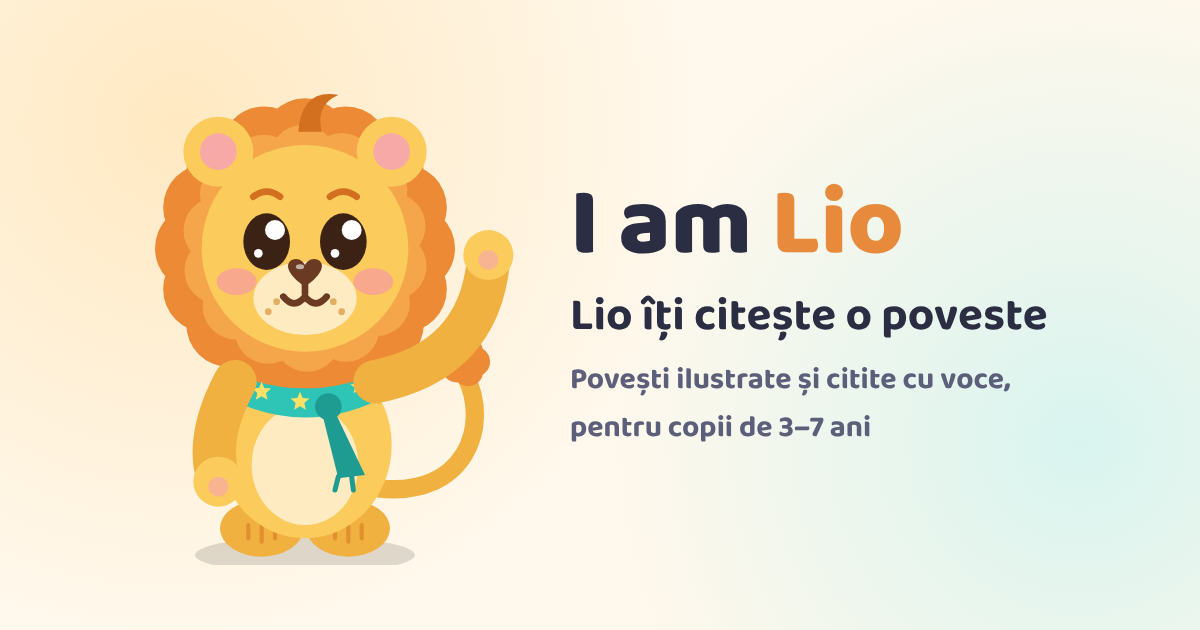
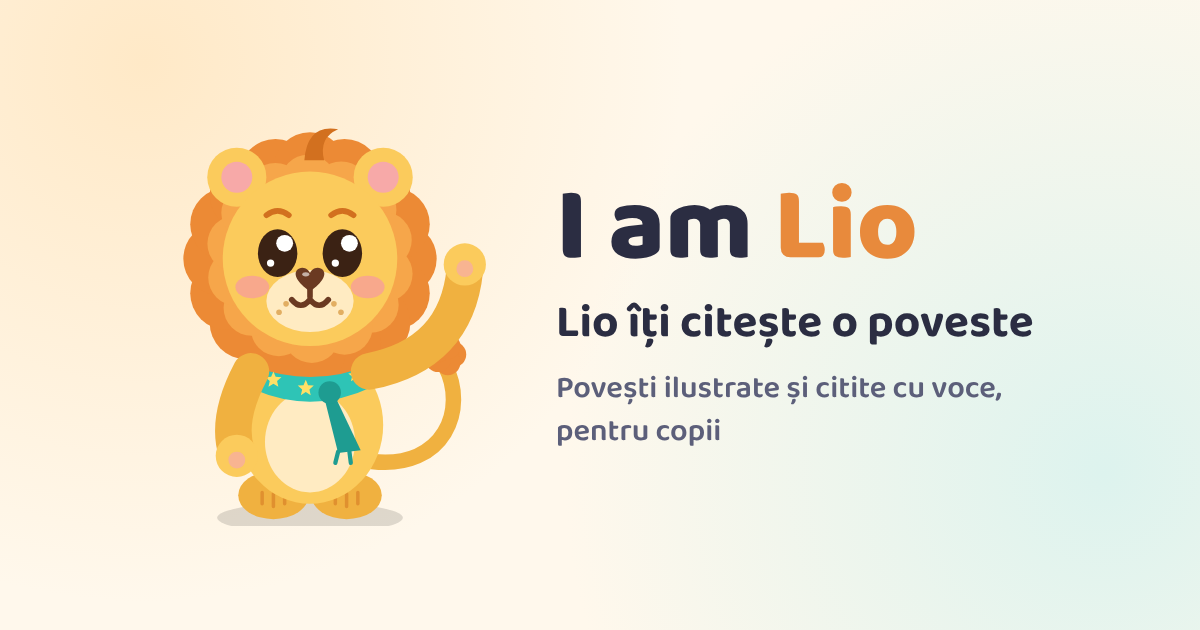
Fără vârstă pe site: „povești pentru copii”, fără filtrul de vârstă
- Textele vizibile, descrierile pentru Google și pentru distribuire, aplicația instalabilă și
  subsolul spun „povești pentru copii”, fără „3–7 ani”
- Cardurile nu mai afișează vârsta; filtrul „Vârsta” a fost scos (rămân categoria, durata, favoritele)
- Imaginea de distribuire refăcută fără vârstă (scripts/og_image.mjs o poate regenera oricând)
- Regulile de scriere a poveștilor nu se schimbă

Claude-Session: https://claude.ai/code/session_01QrXJhKQ2B73JrHLDqtty8x

diff --git a/public/assets/js/library.js b/public/assets/js/library.js
@@ -24,11 +24,10 @@
   var categories = {};
   var counts = null;
 
-  // Filtrele stau în adresa paginii (ex. ?categorie=de-culcare&varsta=3-5), ca o listă filtrată să poată fi trimisă.
+  // Filtrele stau în adresa paginii (ex. ?categorie=de-culcare&durata=scurte), ca o listă filtrată să poată fi trimisă.
   var query = new URLSearchParams(location.search);
   var filters = {
     categorie: query.get("categorie") || "",
-    varsta: query.get("varsta") || "",
     durata: query.get("durata") || "",
     favorite: query.get("favorite") === "1"
   };
@@ -36,17 +35,12 @@
   function saveFilters() {
     var params = new URLSearchParams();
     if (filters.categorie) params.set("categorie", filters.categorie);
-    if (filters.varsta) params.set("varsta", filters.varsta);
     if (filters.durata) params.set("durata", filters.durata);
     if (filters.favorite) params.set("favorite", "1");
     var search = params.toString();
     try {
       history.replaceState(null, "", search ? "?" + search : location.pathname);
     } catch (e) { /* unele browsere refuză în previzualizări; filtrul merge oricum */ }
-  }
-
-  function ageFits(storyAge, wanted) {
-    return !wanted || storyAge === wanted || storyAge === "3-7";
   }
 
   function durationFits(minutes, wanted) {
@@ -58,7 +52,6 @@
 
   function matches(story) {
     return (!filters.categorie || (story.categories || []).indexOf(filters.categorie) !== -1) &&
-      ageFits(story.age, filters.varsta) &&
       durationFits(story.minutes, filters.durata) &&
       (!filters.favorite || Iamlio.isFavorite(story.id));
   }
@@ -92,7 +85,7 @@
     cover.appendChild(el("span", "story-play", "▶"));
     link.appendChild(cover);
 
-    // Pe card: copertă, titlu și durată. Restul (vârsta, contorul, rezumatul) e mic și discret, pentru părinți.
+    // Pe card: copertă, titlu și durată. Restul (contorul, rezumatul) e mic și discret, pentru părinți.
     var body = el("div", "story-body");
     var heading = el("div", "story-heading");
     heading.appendChild(el("h3", null, story.title));
@@ -101,7 +94,6 @@
     heading.appendChild(minutes);
     body.appendChild(heading);
     var details = el("p", "story-details");
-    details.appendChild(el("span", null, story.age + " ani"));
     if (counts) details.appendChild(el("span", "story-reads", Iamlio.readsLabel(counts[story.id] || 0)));
     body.appendChild(details);
     body.appendChild(el("p", "story-summary", story.summary));
@@ -123,7 +115,7 @@
     var reset = el("button", "pill", "Arată toate poveștile");
     reset.type = "button";
     reset.addEventListener("click", function () {
-      filters = { categorie: "", varsta: "", durata: "", favorite: false };
+      filters = { categorie: "", durata: "", favorite: false };
       syncFilters();
       showStories();
     });
@@ -197,7 +189,7 @@
   }
 
   function activeFilters() {
-    return [filters.categorie, filters.varsta, filters.durata, filters.favorite].filter(Boolean).length;
+    return [filters.categorie, filters.durata, filters.favorite].filter(Boolean).length;
   }
 
   // Filtrele stau strânse sub butonul „Filtre”; se deschid singure doar dacă adresa are deja filtre alese.

diff --git a/public/index.html b/public/index.html
@@ -7,16 +7,16 @@
   <meta http-equiv="Content-Security-Policy" content="default-src 'self'; script-src 'self'; style-src 'self' 'unsafe-inline'; img-src 'self' data:; media-src 'self'; font-src 'self'; connect-src 'self'; manifest-src 'self'; object-src 'none'; base-uri 'self'; form-action 'self'">
   <meta name="referrer" content="strict-origin-when-cross-origin">
   <title>Iamlio — Lio îți citește o poveste</title>
-  <meta name="description" content="Povești ilustrate pentru copii de 3–7 ani, citite cu voce de Lio, puiul de leu.">
+  <meta name="description" content="Povești ilustrate pentru copii, citite cu voce de Lio, puiul de leu.">
   <meta name="theme-color" content="#FFF4E0">
   <link rel="canonical" href="https://iamlio.ro/">
   <meta property="og:type" content="website">
   <meta property="og:locale" content="ro_RO">
   <meta property="og:site_name" content="Iamlio">
   <meta property="og:title" content="Iamlio — Lio îți citește o poveste">
-  <meta property="og:description" content="Povești ilustrate pentru copii de 3–7 ani, citite cu voce de Lio, puiul de leu.">
+  <meta property="og:description" content="Povești ilustrate pentru copii, citite cu voce de Lio, puiul de leu.">
   <meta property="og:url" content="https://iamlio.ro/">
-  <meta property="og:image" content="https://iamlio.ro/assets/img/og-image.png">
+  <meta property="og:image" content="https://iamlio.ro/assets/img/og-image.png?v=2">
   <meta property="og:image:width" content="1200">
   <meta property="og:image:height" content="630">
   <meta property="og:image:alt" content="Lio, puiul de leu cu eșarfă turcoaz, îți face cu mâna">
@@ -65,11 +65,6 @@
       <div class="filters" id="filters" hidden>
         <div class="chips" id="category-chips" role="group" aria-label="Categorii"></div>
         <div class="filter-row">
-          <div class="segmented" role="group" aria-label="Vârsta" data-filter="varsta">
-            <button type="button" data-value="">Orice vârstă</button>
-            <button type="button" data-value="3-5">3–5 ani</button>
-            <button type="button" data-value="5-7">5–7 ani</button>
-          </div>
           <div class="segmented" role="group" aria-label="Durata" data-filter="durata">
             <button type="button" data-value="">Orice durată</button>
             <button type="button" data-value="scurte" title="până la 4 minute">Scurte</button>
@@ -87,7 +82,7 @@
   </main>
 
   <footer class="site-footer">
-    <p>Iamlio · povești pentru copii de 3–7 ani · <a href="confidentialitate.html">Confidențialitate</a> · <a href="mailto:contact@iamlio.ro">contact@iamlio.ro</a></p>
+    <p>Iamlio · povești pentru copii · <a href="confidentialitate.html">Confidențialitate</a> · <a href="mailto:contact@iamlio.ro">contact@iamlio.ro</a></p>
   </footer>
 
   <script src="assets/js/iamlio.js" defer></script>

diff --git a/public/poveste.html b/public/poveste.html
@@ -7,15 +7,15 @@
   <meta http-equiv="Content-Security-Policy" content="default-src 'self'; script-src 'self'; style-src 'self' 'unsafe-inline'; img-src 'self' data:; media-src 'self'; font-src 'self'; connect-src 'self'; manifest-src 'self'; object-src 'none'; base-uri 'self'; form-action 'self'">
   <meta name="referrer" content="strict-origin-when-cross-origin">
   <title>Poveste — Iamlio</title>
-  <meta name="description" content="O poveste ilustrată pentru copii de 3–7 ani, citită cu voce de Lio, puiul de leu.">
+  <meta name="description" content="O poveste ilustrată pentru copii, citită cu voce de Lio, puiul de leu.">
   <meta name="theme-color" content="#2B3A73">
   <meta property="og:type" content="website">
   <meta property="og:locale" content="ro_RO">
   <meta property="og:site_name" content="Iamlio">
   <meta property="og:title" content="O poveste citită de Lio — Iamlio">
-  <meta property="og:description" content="Povești ilustrate pentru copii de 3–7 ani, citite cu voce de Lio, puiul de leu.">
+  <meta property="og:description" content="Povești ilustrate pentru copii, citite cu voce de Lio, puiul de leu.">
   <meta property="og:url" content="https://iamlio.ro/poveste.html">
-  <meta property="og:image" content="https://iamlio.ro/assets/img/og-image.png">
+  <meta property="og:image" content="https://iamlio.ro/assets/img/og-image.png?v=2">
   <meta property="og:image:width" content="1200">
   <meta property="og:image:height" content="630">
   <meta property="og:image:alt" content="Lio, puiul de leu cu eșarfă turcoaz, îți face cu mâna">

diff --git a/public/confidentialitate.html b/public/confidentialitate.html
@@ -57,7 +57,7 @@
   </main>
 
   <footer class="site-footer">
-    <p>Iamlio · povești pentru copii de 3–7 ani · <a href="confidentialitate.html">Confidențialitate</a> · <a href="mailto:contact@iamlio.ro">contact@iamlio.ro</a></p>
+    <p>Iamlio · povești pentru copii · <a href="confidentialitate.html">Confidențialitate</a> · <a href="mailto:contact@iamlio.ro">contact@iamlio.ro</a></p>
   </footer>
 </body>
 </html>

diff --git a/README.md b/README.md
@@ -29,8 +29,9 @@ Se folosește doar prenumele copilului. Ca să ștergi o poveste personalizată,
 `public/stories/` (sau cere-i AI-ului) — dispare de pe site la următoarea publicare.
 
 Biblioteca are **categorii** (de culcare, aventuri, animale, prietenie și emoții, învățăm, amuzante), **filtre**
-după vârstă (3–5 / 5–7 ani) și durată (scurte / medii / lungi), **favorite** (♡ pe fiecare poveste) și eticheta
-„Continuă · pagina N” pentru poveștile începute. Filtrele stau în adresa paginii, deci o listă filtrată
+după durată (scurte / medii / lungi), **favorite** (♡ pe fiecare poveste) și eticheta „Continuă · pagina N” pentru
+poveștile începute. Vârsta nu apare nicăieri pe site (site-ul se prezintă simplu, „povești pentru copii”); regulile
+de scriere a poveștilor rămân gândite pentru copiii mici. Filtrele stau în adresa paginii, deci o listă filtrată
 (de ex. `/?categorie=de-culcare`) poate fi trimisă cuiva. Filtrele stau strânse sub butonul „Filtre”.
 
 De la trei povești apare butonul **„Lio, alege tu!”** (o poveste la întâmplare, alta decât data trecută). Poveștile
